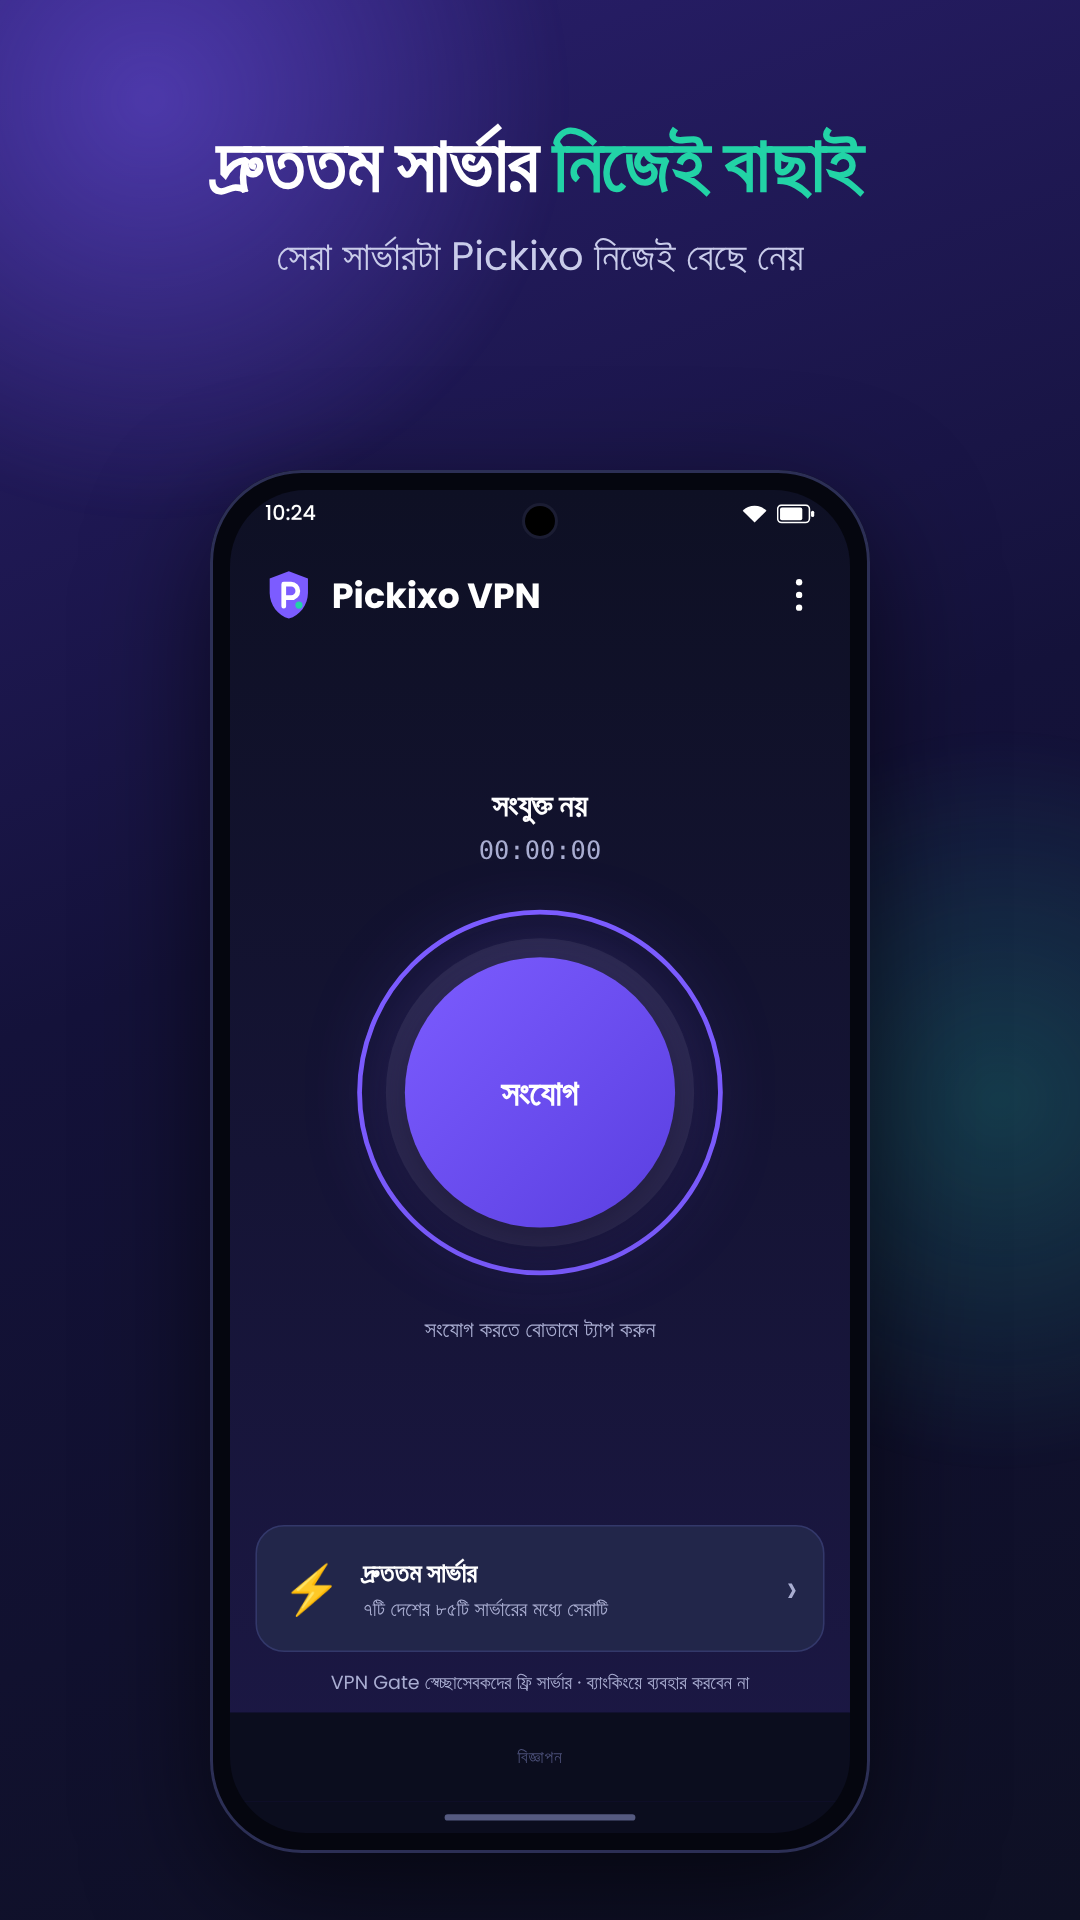
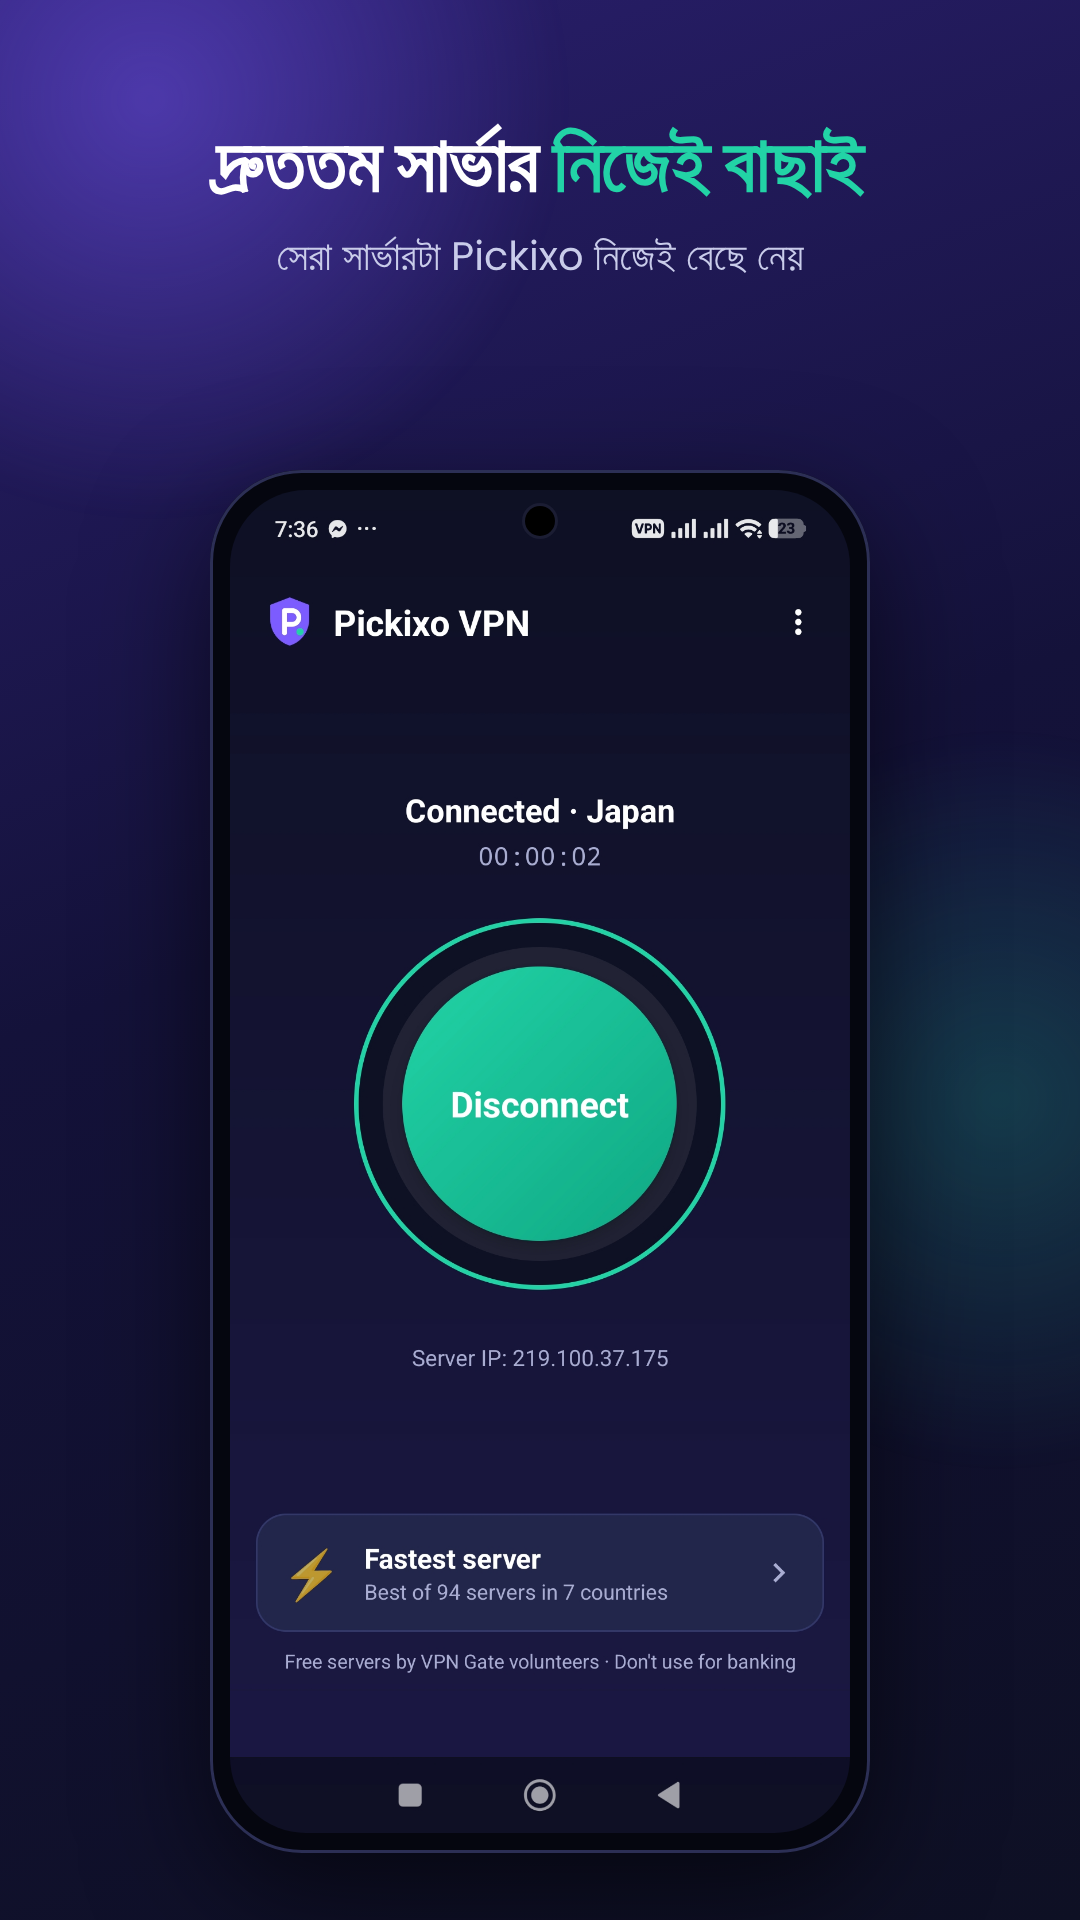
Store screenshots from real device captures (US, Fastest, Russia, Japan)
Claude-Session: https://claude.ai/code/session_018in9LChR1Rt3AgjECgviu5

diff --git a/docs/ASO_STORE_LISTING.md b/docs/ASO_STORE_LISTING.md
@@ -9,12 +9,12 @@
 | App icon | `store/icon-512.png` | 512×512, 32-bit PNG। Play নিজেই কোণ গোল করে, তাই ছবিতে গোল কোণ বা ছায়া নেই |
 | Feature graphic (English) | `store/feature-graphic-en.png` | 1024×500 |
 | Feature graphic (বাংলা) | `store/feature-graphic-bn.png` | 1024×500 |
-| Phone screenshots (English) | `store/screenshots/en/01–06.png` | 1080×1920 (9:16), ৬টি |
-| Phone screenshots (বাংলা) | `store/screenshots/bn/01–06.png` | 1080×1920 (9:16), ৬টি |
+| Phone screenshots (English) | `store/screenshots/en/01–07.png` | 1080×1920 (9:16), ৭টি |
+| Phone screenshots (বাংলা) | `store/screenshots/bn/01–07.png` | 1080×1920 (9:16), ৭টি |
 
 - Play কমপক্ষে ২টা স্ক্রিনশট চায়, সর্বোচ্চ ৮টা। প্রথম ৩টা সবচেয়ে বেশি মানুষ দেখে, তাই সেরাগুলো আগে রেখেছি: এক ট্যাপে সংযোগ, অনেক দেশ, দ্রুততম সার্ভার।
 - ট্যাবলেটের স্ক্রিনশট বাধ্যতামূলক নয়, তাই বাদ রেখেছি।
-- ⚠ স্ক্রিনশটের ভেতরের অ্যাপ-স্ক্রিন আমি অ্যাপের আসল ডিজাইন (রং, লেআউট, লেখা) হুবহু অনুসরণ করে এঁকেছি। দেশের তালিকা VPN Gate-এর আসল সার্ভারের একটা নমুনা থেকে নেওয়া। অ্যাপ ফোনে চালানোর পর কোনো স্ক্রিন আলাদা দেখালে বলবেন, আমি ছবি মিলিয়ে নতুন করে বানিয়ে দেব। Play-এর নিয়ম হলো স্ক্রিনশট অ্যাপের আসল অভিজ্ঞতা দেখাবে।
+- স্ক্রিনশট ১, ৩, ৪ আর ৫ আপনার ফোনের **আসল স্ক্রিনশট** (আমেরিকা, দ্রুততম সার্ভার, রাশিয়া, জাপানে সংযুক্ত অবস্থা)। নিচের টেস্ট বিজ্ঞাপনের অংশটুকু শুধু সরিয়ে দেওয়া হয়েছে। দেশের তালিকা, সম্মতির স্ক্রিন আর বাংলা স্ক্রিনটা অ্যাপের আসল ডিজাইন হুবহু অনুসরণ করে আঁকা।
 
 ## ২. বাংলা listing কীভাবে যোগ করবেন
 

diff --git a/docs/PLAY_STORE_GUIDE_BN.md b/docs/PLAY_STORE_GUIDE_BN.md
@@ -89,7 +89,7 @@
 **Store listing:** সব লেখা আর ছবি তৈরি করা আছে। কোন ছবি কোথায় যাবে আর কোন লেখা কোন ঘরে পেস্ট করবেন, সব আছে **`docs/ASO_STORE_LISTING.md`**-এ:
 - App icon: `store/icon-512.png`
 - Feature graphic: `store/feature-graphic-en.png` (বাংলা listing-এ `feature-graphic-bn.png`)
-- Screenshots: `store/screenshots/en/` আর `store/screenshots/bn/`, প্রতিটিতে ৬টি
+- Screenshots: `store/screenshots/en/` আর `store/screenshots/bn/`, প্রতিটিতে ৭টি
 - App name, short আর full description: ইংরেজি ও বাংলা দুটোই
 - Category: **Tools**
 
